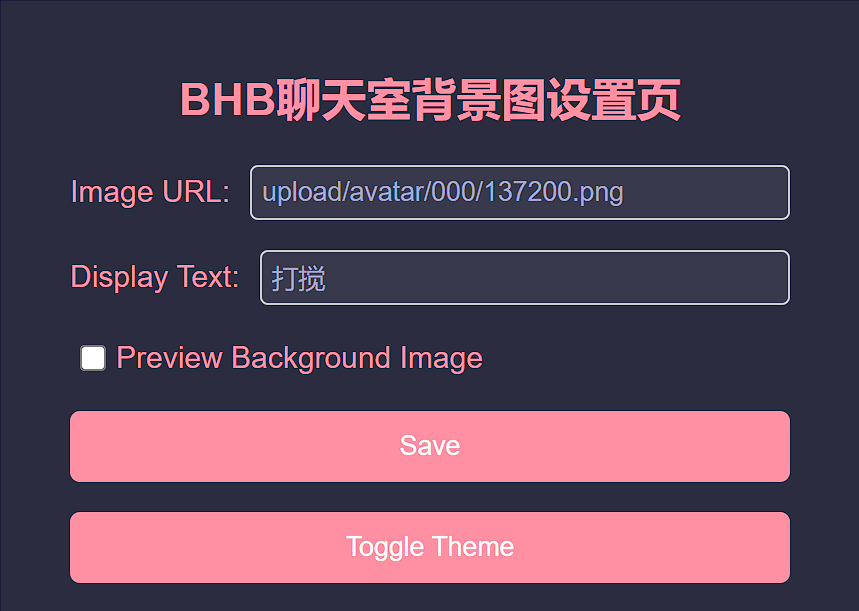
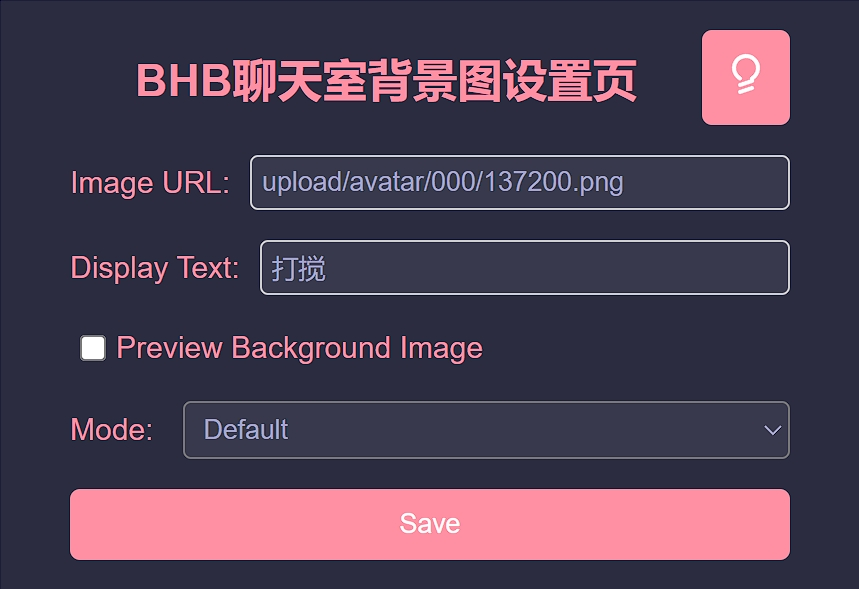
更新文档

diff --git a/README.md b/README.md
@@ -2,20 +2,24 @@
 
 ## 简介
 
-这是一个给BHB聊天室添加图片（外链）的插件。
+这是一个给BHB聊天室添加图片（外链）的插件，支持5种显示模式，支持暗色模式，且其中一种模式去除了输入框上方“白条/黑条”。
 
-这个插件按照W3标准编写，对Chrome的兼容由[polyfill](https://github.com/mozilla/webextension-polyfill)提供。
+> 这个插件按照W3标准编写，对Chrome的兼容由[polyfill](https://github.com/mozilla/webextension-polyfill)提供。
 
 ## 安装
 
 ### 稳定版
+
+<small>暂未上线。</small>
 
 
 ### 开发版
 
 #### Chrome/Edge
 
-见[【开发说明】](#开发说明)。
+当前版本，在项目根目录执行`pack.bat`后`build/BHBChatRoomBG/`下的可以直接供Chrome加载。以下以Edge举例：打开扩展页，在左侧边栏启用“开发人员模式”，在“已安装的扩展”右侧点击“加载解压缩的扩展”，选择`build`目录下的`BHBChatRoomBG`文件夹即可。
+
+> 注：若火狐正直接加载着`build`目录下的`BHBChatRoomBG.xpi`，则`pack.bat`无法完整执行，提示拒绝访问，但这不影响Chrome/Edge版的打包，无视即可。
 
 #### Firefox
 
@@ -25,16 +29,17 @@
 
 点击插件，在弹出的页面设置链接和文本，点击Save保存即可。
 
+> - 关于链接：如果链接不是http(s)://协议开头，默认会当作BHB站内链接，这可能导致链接识别错误。所以，站外链接请使用完整链接。清空链接并保存，刷新聊天室就不会再插入背景了。
+> - 关于文本：这玩意是可选的，不填也行。文本和链接是一体的，如果不插链接则文本也不会显示。文本在仅聊天框背景模式不生效。
+
 ## 效果图
 
-![效果图1](docs/运行效果图1.png)
-![效果图2](docs/运行效果图2.png)
-![效果图3](docs/运行效果图3.png)
-![效果图4](docs/运行效果图4.png)
+<img src="docs/运行效果图1.png" alt="效果图1" style="zoom:50%;" />
+<img src="docs/运行效果图2.png" alt="效果图2" style="zoom:50%;" />
+<img src="docs/运行效果图3.png" alt="效果图3" style="zoom:50%;" />
+<img src="docs/运行效果图4.png" alt="效果图4" style="zoom:50%;" />
 
-## 开发说明
 
-当前版本，在项目根目录执行`pack.bat`后`build/BHBChatRoomBG/`下的可以直接供Chrome加载。
 
 ## LICENSE Summary
 
